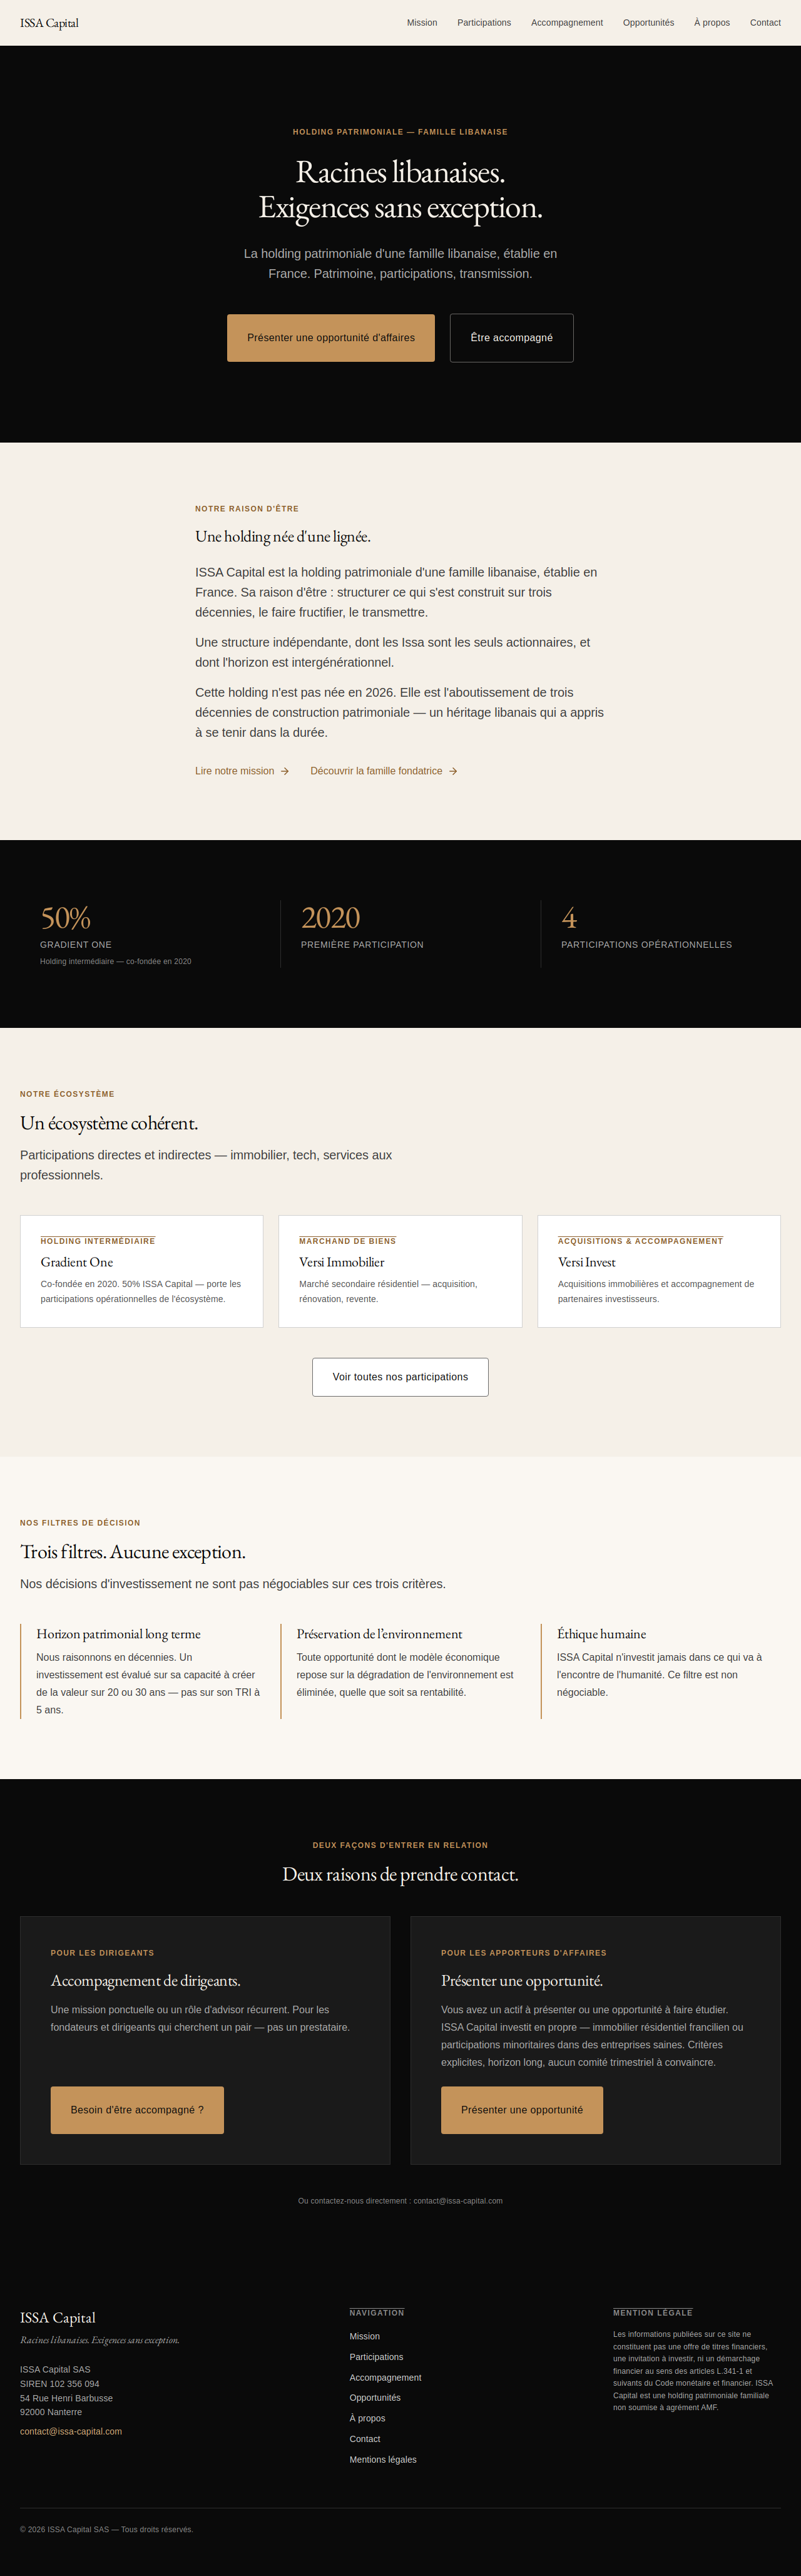
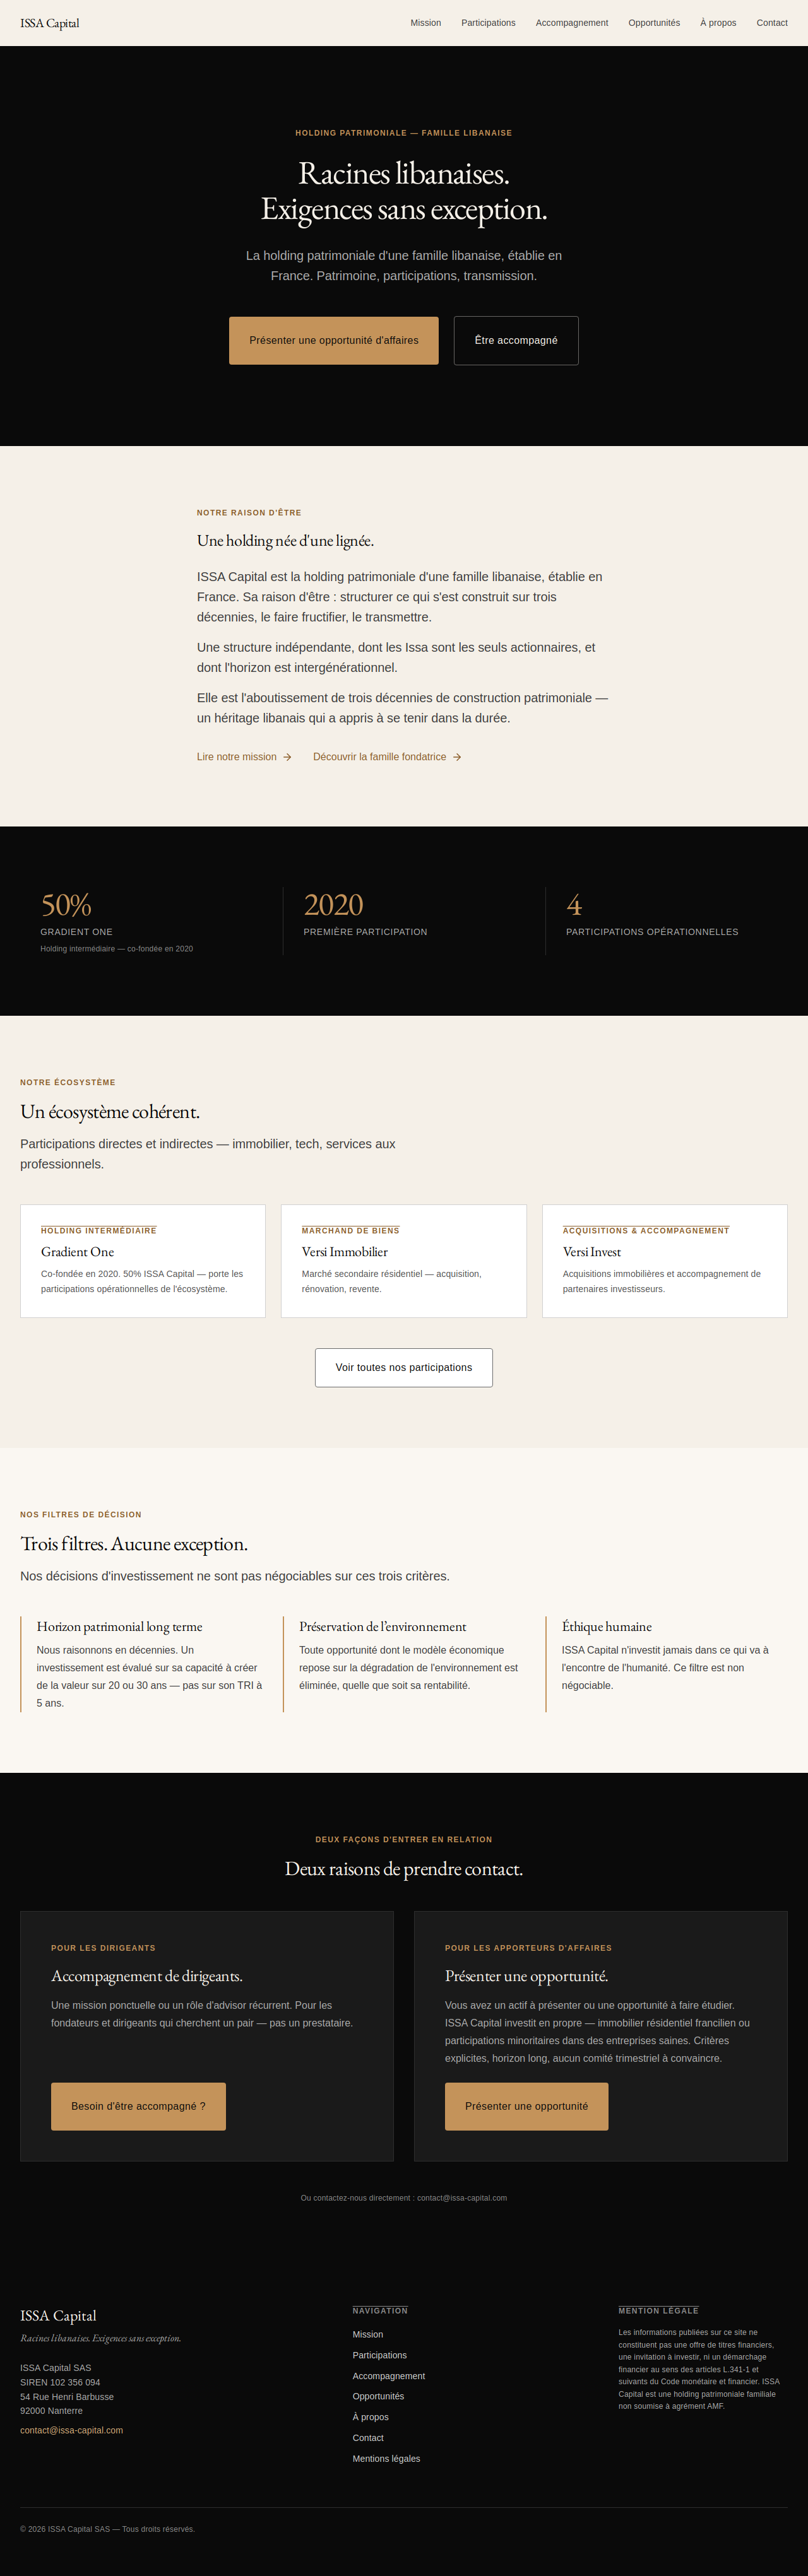
feat(session6): Phase 2 vague 2.1 - 3 Tasks paralleles retours Thomas
Vague 2.1 complete: 3 Tasks @user + @user ont produit en parallele
les livrables des points 1, 2, 3, 4 du brief CHECKPOINT #1 Thomas.

Task C - @user filtres environnement + ethique:
- 4 textes A/B produits dans landing-page-copy.md (section Modif Session 6)
- 3e filtre "Horizon patrimonial" identifie comme intact (pas gnangnan)
- Recommandation copywriter: B pour Filtre 1, A pour Filtre 2
- Emplacements TSX cartographies: page.tsx l.231-236, mission/page.tsx
  l.224-238, opportunites/page.tsx l.144-148

Task D - @user Gradient One Option C corrigee + Versi Invest:
- 3 propositions de titre pour Bloc 1 (avec "co-fondee", correction Thomas)
- Sous-titre + description finalises (Jean-Pierre Issa garde, decennies, structure)
- Bloc 2 Notre ecosysteme: label "Structure centrale", suppression "50% ISSA Capital"
- Bloc 3 Versi Invest: "Co-acquisitions & accompagnement" (club deal + accompagnement)
- Question stat 50% resolue par Thomas: "ISSA Capital detient 50% de Gradient One",
  Thomas est cofondateur avec 2 co-associes (50% / 30% / 20%), pas de mention 50
  dans le copy public

Task E - @user Edit chirurgical incipit "Notre raison d'etre":
- src/app/page.tsx l.102: suppression "Cette holding n'est pas nee en 2026."
- Cas A applique: sujet "Elle" reste comprehensible (contexte amont resout)
- Propagation landing-page-copy.md (lignes 86 + 506)
- Pipeline G28: tsc 0 / lint 0 / vitest 7/7 / next build 16 routes
[…]

diff --git a/src/app/page.tsx b/src/app/page.tsx
@@ -99,9 +99,8 @@ export default function HomePage(): JSX.Element {
               dont l&apos;horizon est intergénérationnel.
             </p>
             <p>
-              Cette holding n&apos;est pas née en 2026. Elle est l&apos;aboutissement de
-              trois décennies de construction patrimoniale — un héritage libanais qui a
-              appris à se tenir dans la durée.
+              Elle est l&apos;aboutissement de trois décennies de construction
+              patrimoniale — un héritage libanais qui a appris à se tenir dans la durée.
             </p>
           </div>
           <div className="mt-xl flex flex-col gap-md sm:flex-row sm:flex-wrap sm:gap-xl">

diff --git a/docs/copy/landing-page-copy.md b/docs/copy/landing-page-copy.md
@@ -83,7 +83,7 @@ ISSA Capital est la holding patrimoniale d'une famille libanaise, établie en Fr
 
 Une structure indépendante, dont les Issa sont les seuls actionnaires, et dont l'horizon est intergénérationnel.
 
-Cette holding n'est pas née en 2026. Elle est l'aboutissement de trois décennies de construction patrimoniale — un héritage libanais qui a appris à se tenir dans la durée.
+Elle est l'aboutissement de trois décennies de construction patrimoniale — un héritage libanais qui a appris à se tenir dans la durée.
 
 ### CTA secondaire
 Lire notre mission →  [lien vers /mission]
@@ -503,7 +503,7 @@ ISSA Capital est la holding patrimoniale d'une famille libanaise, établie en Fr
 
 Une structure indépendante, dont les Issa sont les seuls actionnaires, et dont l'horizon est intergénérationnel.
 
-Cette holding n'est pas née en 2026. Elle est l'aboutissement de trois décennies de construction patrimoniale — un héritage libanais qui a appris à se tenir dans la durée.
+Elle est l'aboutissement de trois décennies de construction patrimoniale — un héritage libanais qui a appris à se tenir dans la durée.
 ```
 
 [Motivation : retour Thomas #3 — ~9 occurrences "famille" → cible 3 max. H2 réécrit sans tournure "c'est". Chaleur familiale préservée via "lignée", "héritage", "trois décennies". Mot "famille" apparaît 1 fois dans le corps (paragraphe 1). "Les Issa" remplace la répétition "la famille Issa" en paragraphe 2.]
@@ -515,3 +515,120 @@ Cette holding n'est pas née en 2026. Elle est l'aboutissement de trois décenni
 - Ton éditorial en section finale : pas de fond rouge, pas de compte à rebours — Principe #0 VITRINE
 - "Racines libanaises. Exigences sans exception." reste en footer — ne pas supprimer
 - Famille LIBANAISE — jamais "française" dans les textes visibles
+
+---
+
+## Modif Session 6 — Filtres de décision (réécriture P0 retour Thomas #4)
+
+> Sources amont : src/app/page.tsx (homepage l.231-236), src/app/mission/page.tsx (l.224-238), src/app/opportunites/page.tsx (l.144-148), docs/copy/page-mission.md (l.154-162), docs/copy/page-opportunites.md (l.107-111)
+> Demande Thomas verbatim : "ça fait un peu gnangnan, je veux qu'on revoie ces textes"
+> Contrainte : éviter le pompeux/littéraire (R1), garder fermeté sobre
+
+### Filtre 1 — Préservation de l'environnement
+
+**Texte actuel (homepage)** : "Toute opportunité dont le modèle économique repose sur la dégradation de l'environnement est éliminée, quelle que soit sa rentabilité."
+
+**Problème** : structure administrative ("dont le modèle économique repose sur"), adverbe justificatif ("quelle que soit sa rentabilité"), verbe passif qui dilue l'autorité.
+
+#### Option A — registre pragmatique (décision business)
+**Titre** : Préservation de l'environnement
+**Corps** : Un investissement dont le modèle repose sur la dégradation environnementale ne passe pas le premier filtre.
+**Pourquoi** : Vocabulaire d'investisseur ("premier filtre", "passe"), concision qui implique le reste sans le dire — Karim comprend que c'est éliminatoire sans le mot "éliminé".
+
+#### Option B — registre principiel (conviction)
+**Titre** : Préservation de l'environnement
+**Corps** : Ce que nous finançons doit tenir sur trente ans. Un modèle qui dégrade l'environnement ne tient pas.
+**Pourquoi** : Ancre le filtre dans l'horizon patrimonial long terme (cohérence interne), pas dans une morale externe — la fermeté découle de la logique, pas d'un principe affiché.
+
+### Filtre 2 — Éthique humaine
+
+**Texte actuel (homepage)** : "ISSA Capital n'investit jamais dans ce qui va à l'encontre de l'humanité. Ce filtre est non négociable."
+
+**Problème** : formulation négative en double ("n'investit jamais" + "va à l'encontre") — deux négations pour dire une seule chose. "Ce filtre est non négociable" annonce sa propre importance, ce qui est l'inverse de l'autorité.
+
+#### Option A — registre pragmatique (décision business)
+**Titre** : Éthique humaine
+**Corps** : Certains secteurs sont hors périmètre, indépendamment du dossier. Ce n'est pas une question d'analyse.
+**Pourquoi** : "Indépendamment du dossier" dit le caractère absolu sans le crier. "Pas une question d'analyse" ferme la porte à toute négociation — plus définitif que "non négociable" car il ne répond même pas à l'objection.
+
+#### Option B — registre principiel (conviction)
+**Titre** : Éthique humaine
+**Corps** : Il y a ce que l'argent ne doit pas financer. ISSA Capital a une réponse claire à cette question.
+**Pourquoi** : Affirme une position sans liste, sans pédagogie, sans adverbe. La clarté annoncée ("réponse claire") est plus autoritaire que l'explication de ce qui est refusé — Karim n'a pas besoin du contenu exact, il a besoin de savoir que la ligne existe.
+
+### Notes pour @fullstack (Phase 3)
+- Emplacements à modifier (tous les fichiers TSX doivent recevoir la formulation retenue) :
+  - `src/app/page.tsx` l.231-232 (Filtre 1) et l.235-236 (Filtre 2)
+  - `src/app/mission/page.tsx` l.224-230 (Filtre 1) et l.234-238 (Filtre 2)
+  - `src/app/opportunites/page.tsx` l.144-148 (les deux filtres dans un même bloc prose)
+- Les fichiers docs/ (page-mission.md, page-opportunites.md, landing-page-copy.md Section 5) doivent être mis à jour en cohérence après l'arbitrage Thomas
+- 3e filtre détecté : "Horizon patrimonial long terme" (`src/app/page.tsx` l.227-228, `src/app/mission/page.tsx` l.214-220) — formulation actuelle sobre et directe, pas gnangnan, pas à modifier
+- Régénérer les baselines Playwright pour Section 5 homepage et section Trois filtres /mission après application
+
+### Handoff
+- **À Thomas** : 2 décisions indépendantes — A ou B pour Filtre 1, A ou B pour Filtre 2. Les combinaisons sont toutes cohérentes entre elles.
+- **À @fullstack (Phase 3)** : application TSX sur les 3 fichiers listés ci-dessus + propagation docs/ après arbitrage Thomas
+
+---
+
+## Modif Session 6 — Gradient One (Option C corrigée) + Versi Invest (retours Thomas #2 #3)
+
+> Sources amont : docs/strategy/gradient-one-angle-options.md, src/app/page.tsx (l.125-209), docs/copy/landing-page-copy.md (Section 4 Filiation Jean-Pierre + Section 5 écosystème)
+> Décision Thomas CHECKPOINT #1 : Option C retenue, mais "fondée" → "co-fondée avec deux associés"
+> Jean-Pierre Issa : OK nommé pour l'instant (Thomas a validé)
+> Nombre d'associés : deux (verrouillé Thomas) — noms non divulgués
+
+### Bloc 1 — "Participation phare" Gradient One (Section 3 key stats)
+
+**Overline** : Trois générations. Une structure.
+
+**Titre principal — 3 propositions (Thomas tranche)**
+
+- Proposition 1 : *Gradient One — co-fondée par Thomas Issa et deux associés.*
+- Proposition 2 : *Gradient One — fondée à trois, pour porter un écosystème familial.*
+- Proposition 3 : *Gradient One — la holding co-fondée par Thomas Issa en 2020.*
+
+**Sous-titre** : Première décision formelle d'une famille qui construit depuis trois décennies.
+
+**Description courte** : Ce que Jean-Pierre Issa a transmis à son fils, Thomas l'a structuré — avec deux associés. Gradient One est le premier acte de cet héritage mis en forme.
+
+**Stat affichée** : 50% — [INFO À VALIDER : ce chiffre représente la part d'ISSA Capital dans Gradient One. Si la co-fondation à trois n'implique pas une part égale de 1/3, le 50% reste cohérent si c'est bien la participation d'ISSA Capital. Thomas confirme ou corrige.]
+
+---
+
+### Bloc 2 — "Notre écosystème" Gradient One (card)
+
+**Card title** : Gradient One
+
+**Card label (remplace "Holding intermédiaire")** : Structure centrale
+
+**Card description** : Co-fondée en 2020. Porte les participations opérationnelles de l'écosystème.
+
+[Note : "50% ISSA Capital" supprimé per demande Thomas. "Holding intermédiaire" remplacé par "Structure centrale" — plus lisible pour Karim sans jargon juridique. "Co-fondée en 2020" maintenu — factuel, cohérent avec Section 3 key stats et titre Bloc 1.]
+
+---
+
+### Bloc 3 — "Notre écosystème" Versi Invest (card)
+
+**Card title** : Versi Invest
+
+**Card label (remplace "Acquisitions & accompagnement")** : Co-acquisitions & accompagnement
+
+**Card description** : Co-acquisitions immobilières en format club deal — pour investir en pool, sans en faire son métier. Missions d'accompagnement pour les partenaires qui structurent leur approche.
+
+[Note : les deux activités sont posées comme deux modalités complémentaires d'une même offre. "Club deal" conservé — terme reconnu par Karim investisseur. "Sans en faire son métier" = voix de Karim, pas celle de Versi Invest. @legal : cohérent avec la note L.411-1 existante — cette formulation décrit toujours une participation, pas une offre d'investissement d'ISSA Capital.]
+
+---
+
+### Notes pour @fullstack (Phase 3)
+
+- **Bloc 1 — key stats** (`src/app/page.tsx` l.133-137) : remplacer le sous-label "Holding intermédiaire — co-fondée en 2020" par le titre retenu (proposition Thomas) + conserver stat 50% sauf correction Thomas sur la part
+- **Bloc 2 — écosystème card Gradient One** (`src/app/page.tsx` l.178-181) : `sector` → "Structure centrale", `desc` → "Co-fondée en 2020. Porte les participations opérationnelles de l'écosystème."
+- **Bloc 3 — écosystème card Versi Invest** (`src/app/page.tsx` l.188-191) : `sector` → "Co-acquisitions & accompagnement", `desc` → voir Bloc 3 ci-dessus
+- Régénération baselines Playwright : Section 3 key stats + Section 4 écosystème homepage
+- Vérifier cohérence Section 4 Filiation (landing-page-copy.md l.133-148) — même arc narratif Jean-Pierre → Thomas, pas de redite verbatim
+
+### Handoff
+
+- **À Thomas** : (a) choix titre Bloc 1 parmi Propositions 1 / 2 / 3, (b) confirmation stat 50% ou correction si la part réelle est différente, (c) validation Blocs 2 et 3 tels quels
+- **À @fullstack (Phase 3)** : application TSX consolidée sur les 3 blocs après arbitrage Thomas — 3 lignes dans le même fichier `src/app/page.tsx`

diff --git a/project-context.md b/project-context.md
@@ -512,6 +512,7 @@ CTA principal sur tout le site : **"Proposer une opportunité d'investissement"*
 | @design (Session 5 — refonte favicon) | 2026-04-08 | docs/design/favicon-redesign-session5.md + public/favicon.svg | Refonte Direction A (sérif classique purs, C en arc Bézier cubique). Correction du problème soulevé par Thomas : l'ancienne version construisait le C avec des rectangles uniquement (look "Paint"). Le nouveau SVG utilise un path Bézier cubique (constante k=0.5523) pour l'arc du C — vraie courbe de lettre. Le I conserve ses empattements serif (barre horizontale + retour en escalier). Palette inchangée : fond ink-950 `#0A0A0A`, glyphes parchment-100 `#F5F0E8`, filet ocre levant-500 `#C4935A`. Filet ocre maintenu comme signature graphique. Sérifs du C : 28px de haut, x=298 à x=440. Directions B (ligature) et C (fond clair) écartées. | Direction A retenue car : (1) résout précisément le problème "Paint" via Bézier ; (2) referme la boucle avec EB Garamond heading du site (même esprit sérif) ; (3) lisibilité à 16px préservée — I et C identifiables séparément. Direction B écartée : fusion I+C risque de rendre illisible les deux lettres à 16px. Direction C écartée : fond clair donne un contraste insuffisant sur les onglets de navigateur (fond blanc des onglets). Pas de modification des tokens couleurs ni de design-tokens.json — palette verrouillée respectée intégralement. @fullstack doit régénérer les binaires via `scripts/generate-assets.mjs` (favicon.ico, PNG 16/32/192/512, apple-touch-icon) et mettre à jour public/favicon-source.svg + public/logo-monogram.svg en cohérence. |
 | @reviewer (Session 5 — Phase E audit final 32 gates) | 2026-04-08 | docs/reviews/cross-review-session5.md | Audit final 32 gates G1-G32 sur tous les livrables session 5 (Phase A restructures stratégiques + Phase B copy + Phase C code TSX + Phase C3 favicon + Phase D tests). Verdict global : **GO CONDITIONNEL — score 9.4/10**. Lots audités : Lot 1 Phase A (G1/G3/G5/G7/G12/G13/G15/G18/G19 PASS), Lot 2 Phase B copy (G1/G3/G5/G6/G7/G8/G13/G14/G15/G19/G24 PASS, G-sources-amont PARTIEL sur landing-page-copy.md format historique non bloquant), Lot 3 Phase C TSX (G1/G7/G13/G15/G19/G22/G23/G26/G27/G28 PASS — 8 retours Thomas vérifiés un par un par Grep, pipeline G28 5/5 PASS, Playwright 154/2skip/0fail, 24 baselines, 11/11 US couvertes, UTF-8 PASS, identité libanaise PASS, concurrents PASS), Lot 4 Phase C3 favicon (G22 contraste ink-950/parchment-100 ~14:1 PASS, tokens design system PASS, 6 SVG + 5 binaires régénérés), Lot 5 Phase D tests (G1/G3/G5/G7/G27/G28 PASS sur les 2 rapports). Réconciliation testeur-karim (8.5/10 GO CONDITIONNEL) vs qa (GO intégral) : les deux verdicts mesurent des dimensions complémentaires (valeur perçue vs conformité technique), ne se contredisent pas. P0-1 + P1-1 corrigés en Phase C2. **4 frictions résiduelles non bloquantes reportées session 6** : P1-2 Section 4 Filiation absente homepage TSX (décision éditoriale Thomas requise), P1-3 Sony/TEOS continuité narrative (1 Edit cosmétique), P2 Section 6 répétition hero, P2 statistique TESTING.md 21 vs 24 baselines. **Décision : mise en ligne autorisée** sur branche `claude/resume-issa-session-5-zZVP2` commit `3304597`. Recommandation lessons-learned : capitaliser pattern "verbatim fictif" comme gate ad-hoc candidate G33 (3+ FAIL nécessaires avant promotion permanente). | Phase E session 5 audit final. Verdict GO CONDITIONNEL et non GO sec car 2 P1 testeur-karim consciemment reportés (P1-2 + P1-3) — par rigueur audit, tout report assumé doit être marqué dans le verdict, pas masqué. P1-2 escaladé à Thomas (décision éditoriale : ajouter Section 4 Filiation sur home.tsx ou maintenir le delta entre copy MD et TSX comme volonté éditoriale assumée — le copy reste source de vérité éditoriale, le TSX peut être plus court pour respecter Simplicité > Démonstration > Élégance). P1-3 + P2 reportés session 6 lot micro-corrections sans urgence. Pipeline G28 et conformité visuelle G26 jugés sur le rapport @qa Phase D (re-validation indépendante post-Phase C, pas une autocertification @fullstack). Décision de NE PAS bloquer le verdict sur les 2 P1 résiduels car : (1) aucun n'affecte la conformité technique ou juridique, (2) le site est fonctionnellement complet et déployable, (3) le principe directeur P0 VITRINE non-conversion accepte un site éditorialement minimaliste. Score 9.4/10 dérivé : sur ~30 gates applicables, ~28 PASS ferme, 2 PARTIEL/non-bloquant. |
 | @fullstack (Session 5 — mini-Phase C3 propagation favicon IC) | 2026-04-08 | public/favicon-source.svg (sync) + public/apple-touch-icon.svg (créé) + public/android-chrome-192x192.svg (déjà à jour) + public/android-chrome-512x512.svg (déjà à jour) + public/logo-monogram.svg (déjà à jour) + public/favicon.ico (régénéré) + public/apple-touch-icon.png (régénéré) + public/android-chrome-192x192.png (régénéré) + public/android-chrome-512x512.png (régénéré) + public/og-image.png (régénéré) + src/app/favicon.ico (copié depuis public/) + src/app/apple-icon.png (copié depuis public/) + src/app/icon.svg (déjà à jour) + tests/screenshots/{iphone-13,ipad,desktop-chrome}/*.png (24 baselines régénérées) | Phase C3 propagation favicon IC Direction A + régénération binaires + baselines. État d'entrée : @design avait déjà propagé le nouveau design dans `public/favicon.svg` + `public/favicon-source.svg` + `public/logo-monogram.svg` + `public/android-chrome-{192,512}.svg` + `src/app/icon.svg` (tous les 12:00). Seul `public/apple-touch-icon.svg` manquait (n'existait jamais dans le repo, cause d'échec futur de `scripts/generate-assets.mjs` qui le référence ligne 43) — créé avec le nouveau design Direction A (paths Bézier identiques au favicon, viewBox 512×512, palette tokens inchangée). Exécution de `scripts/generate-assets.mjs` → 5 binaires PNG régénérés à partir des SVG sources dans `public/` : apple-touch-icon.png (180×180), android-chrome-192x192.png, android-chrome-512x512.png, og-image.png (1200×630, inchangé car non concerné par la refonte favicon), favicon.ico multi-tailles 16/32/48. **Problème critique résolu** : le layout Next.js utilise la convention file-based App Router (`src/app/favicon.ico`, `src/app/icon.svg`, `src/app/apple-icon.png`) qui a priorité sur les fichiers de `public/`. Le script ne génère que dans `public/` — copie manuelle des 2 binaires critiques vers `src/app/` : `cp public/favicon.ico src/app/favicon.ico` + `cp public/apple-touch-icon.png src/app/apple-icon.png`. `src/app/icon.svg` était déjà à jour (12:00, écrit par @design). Pipeline G28 PASS intégral : tsc --noEmit 0 erreur + npm run lint 0 warning/erreur + vitest 7/7 PASS + next build 16 routes (voir `/apple-icon.png` et `/icon.svg` servis par file-based routing) + Playwright 154 passed / 2 skipped / 0 failed (identique baseline Phase C2). Régénération baselines via `npx playwright test tests/visual/screenshots.spec.ts` → 24 baselines réécrites par `page.screenshot({ path })` direct (pattern projet). Caractères UTF-8 réels (é) dans `apple-touch-icon.svg` nouvellement créé — règle CLAUDE.md n°13 respectée. | Création d'un nouveau `public/apple-touch-icon.svg` plutôt que modification de `scripts/generate-assets.mjs` : le script référence explicitement des SVG sources par nom (apple-touch-icon.svg, android-chrome-192x192.svg, android-chrome-512x512.svg, og-image-source.svg, favicon-source.svg) — c'est la convention du script, la respecter maintient la symétrie avec les deux autres fichiers android-chrome-*.svg qui suivent le même pattern et que @design avait déjà mis à jour en amont. Copie manuelle `public/ → src/app/` des 2 binaires critiques (favicon.ico + apple-touch-icon.png → apple-icon.png) plutôt que modification du script pour écrire directement dans src/app/ : la séparation est volontaire — `public/` reste la source de distribution statique classique (référencée par le manifest, accessible via URL directe), `src/app/` est le mécanisme file-based routing qui a priorité. Modifier le script créerait un couplage entre assets et convention Next.js spécifique — fragile si la convention évolue. La copie explicite est plus lisible et traçable. `src/app/icon.svg` non touché car @design l'avait déjà mis à jour. Régénération des 24 baselines (pas seulement les 2 pages) car le favicon est visible dans l'URL bar et potentiellement dans les métadonnées de certains tests — décision prudente pour éviter des diffs résiduels sur d'autres tests. Aucune régression sur les 154 tests Playwright, 2 skipped pré-existants (touch targets mobile + 1 a11y, identiques sessions précédentes). Application du livrable @design refonte favicon (retour Thomas P1 "on dirait écrit par un enfant sur Paint"). |
+| @fullstack (Session 6 — Edit chirurgical retour Thomas #1) | 2026-04-08 | src/app/page.tsx (Section "Une holding née d'une lignée" — ligne 102) + docs/copy/landing-page-copy.md (ligne 86 section live + ligne 506 version "Après" Modif Session 5) + tests/screenshots/desktop-chrome/home.png (1 baseline régénérée) | Suppression de l'incipit "Cette holding n'est pas née en 2026." du 3ème paragraphe de la Section "Notre raison d'être" homepage (retour Thomas CHECKPOINT #1 Session 6 point 1) — diagnostic Thomas : négation explicative qui se justifie au lieu de poser le principe, même pattern que audit justifications explicites Phase 1bis. Cas A appliqué (sujet "Elle" conservé tel que demandé verbatim par Thomas) — pas de remplacement par "ISSA Capital" malgré l'ambiguïté théorique du référent, car (a) Thomas a dicté la version finale au mot près, (b) le contexte du paragraphe (après "Une structure indépendante...") permet au lecteur de résoudre "Elle" naturellement comme la holding mentionnée dans les paragraphes précédents. Propagation copy ↔ TSX synchronisée sur les 2 occurrences actives de landing-page-copy.md (ligne 86 section live + ligne 506 version "Après" Modif Session 5). Ligne 497 laissée intacte (historique "Avant" de Modif Session 5 — cohérence narrative de l'historique des modifs). Pipeline G28 PASS : tsc 0 erreur + lint 0 warning/erreur + vitest 7/7 PASS + next build 16 routes générées. Playwright : test `visual/screenshots.spec.ts --grep home` PASS sur desktop-chrome + 1 baseline `tests/screenshots/desktop-chrome/home.png` régénérée automatiquement (le test utilise `page.screenshot({ path })` direct, pattern projet — pas de `toMatchSnapshot`). **Limitation environnement sandbox** : browsers Playwright Mobile Safari/Firefox/Webkit non installables (dépendances système Linux manquantes, pas de sudo disponible), donc baselines `iphone-13/home.png` et `ipad/home.png` NON régénérées par ce run — à régénérer en environnement complet par la suite. Caractères UTF-8 réels (é, à, è, — em-dash) préservés dans la string React. | Cas A retenu vs Cas B (remplacement "Elle" par "ISSA Capital") : Thomas a dicté la version finale exacte dans son verbatim CHECKPOINT #1 — respecter la demande du fondateur prime sur un arbitrage théorique de lisibilité. Le sujet "Elle" reste naturellement compris grâce au contexte immédiat (paragraphe 1 "ISSA Capital est la holding patrimoniale...", paragraphe 2 "Une structure indépendante..."). Edit chirurgical minimal (suppression de 1 phrase + 1 espace) pour éviter toute perturbation de la section et du pipeline visuel. Propagation copy stricte sur les 2 occurrences actives (pas l'occurrence historique "Avant") : préservation du narratif historique des Modif Session 5 dans landing-page-copy.md. Pas d'intervention sur les autres retours Thomas Session 6 (filtres, Gradient One, Versi Invest, justifications) — ils sont gérés en parallèle par d'autres agents (@copywriter), respect strict du périmètre défini par l'orchestrateur pour éviter les conflits de fichiers. Aucune anomalie détectée hors scope pendant cette intervention. Potentiel conflit d'édition landing-page-copy.md signalé au handoff (@copywriter édite aussi ce fichier en parallèle pour les retours filtres + Gradient One) — mon Edit utilise un `old_string` avec 3 lignes de contexte pour être unique et ne collisionne qu'avec la Section 2 "Une holding née d'une lignée" + bloc "Modif 6 Après". |
 
 ---
 
@@ -521,6 +522,8 @@ CTA principal sur tout le site : **"Proposer une opportunité d'investissement"*
 |-------|------|----------|------------|-----------|----------------|----------|-------------|-------|
 | reviewer | 2026-04-07 | cross-review-report.md (audit final 32 gates Phase 3 Étape 2) | 5 | 5 | 5 | 5 | 5 | Verdict GO CONDITIONNEL — 2 FAIL BLOQUANT identifiés (G7 copy↔code, G15 unicode), 2 Edits @fullstack à appliquer, score dérivé 9.5/10, atteindra 10/10 après corrections. Aucune contradiction stratégique. |
 | @copywriter | 2026-04-08 | docs/copy/audit-justifications-explicites-session6.md | Audit transverse pattern "décision noir sur blanc" | 5 occurrences actives (P0×1, P1×3, P2×1) — P0 = "Dans les deux cas : aucun tarif affiché…" /accompagnement ligne 308. 3 zones de refonte identifiées (/mission) pour recroiser après Phase 2. 5 règles éditoriales transverses produites. |
+| @copywriter | 2026-04-08 | docs/copy/landing-page-copy.md (Modif Session 6 filtres) | Réécriture filtres environnement + éthique (A/B) | 4 textes produits, en attente arbitrage Thomas — A pragmatique / B principiel pour chaque filtre |
+| 2026-04-08 | @copywriter | landing-page-copy.md (Modif Session 6 Gradient One + Versi) | Finalisation Option C corrigée + Versi Invest co-acquisitions | 3 blocs produits, 3 propositions titre Bloc 1 — "fondée" → "co-fondée avec deux associés" verrouillé |
 | reviewer (Phase 3 Étape 3 — audit page par page + checklist GO/NO-GO) | 2026-04-07 | docs/reviews/page-by-page-audit.md + docs/reviews/go-nogo-checklist.md | 5 | 5 | 5 | 5 | 5 | Audit 21 dimensions × 7 pages publiques. Vérification que les 2 FAIL BLOQUANT de cross-review-report.md (G7 + G15) sont **appliqués** sur la branche (Grep `\\uXXXX` → 0 match, Grep "formulaire de dix champs" → 0 match, Grep "Quelques informations pour comprendre" → présent ligne 327). Verdict page-by-page : **6 GO + 1 GO CONDITIONNEL** (`/` : 2 overline `text-levant-500` lignes 300/317 sur fond subtle — incohérence gouvernance tokens, non bloquant axe-core PASS, 2 Edits @fullstack optionnels). Vérifications négatives PASS : 0 concurrent nominal, 22 occurrences libanais/Liban, 6 occurrences "française" toutes en contexte légitime (forme juridique SAS + opposition explicite mission/page.tsx:287), lien mentions légales présent footer global, `<html lang="fr">` layout root, JSON-LD Organization global + Person Thomas /mission, canonical 7/7 pages. Checklist GO/NO-GO produite en 6 sections : pré-déploiement (build+audits+contenu+secrets+assets), config domaine DNS, smoke tests T+0 (navigation + ContactForm 2 variants + SEO + responsive + Lighthouse), vérifs SEO T+24h (GSC + Bing + sharing + monitoring), 8 critères de rollback (R1-R8), verdict final à cocher par Thomas. Recommandation reviewer : **GO** conditionné à 4 blocages humains (données mentions-légales capital/TVA, Secrets Replit, DPA Resend, DNS registrar). | Audit par-page cette fois (pas transversal comme Étape 2) car l'objet est la validation finale page-by-page avant Deploy — approche complémentaire. Point clé : les 2 BLOQUANT Étape 2 sont **déjà résolus** sur la branche (commits depuis le rapport Étape 2), donc le verdict passe de GO CONDITIONNEL à GO substantiel. La seule friction restante `/` (overline text-levant-500 sur fond clair) n'est pas un rejet WCAG observé (axe-core 7 pages PASS Phase 2b) — c'est une incohérence de gouvernance du composant Overline (qui expose déjà la logique `tone="dark"` → levant-700), traitable en hotfix J+1 sans bloquer le Deploy. Pas de `/politique-confidentialite` séparée : le volet RGPD est intégré à `/mentions-legales` conformément à la spec legal — documenté N/A sans FAIL. Checklist GO/NO-GO structurée 6 sections + case verdict humaine Thomas : reflète que la décision finale Deploy appartient au fondateur, pas à l'agent — reviewer recommande, Thomas décide et coche. 8 critères de rollback définis pour donner à Thomas un cadre clair d'escalade post-déploiement (vs panique). |
 
 **Légende (échelle 1-5 alignée avec CLAUDE.md) :**